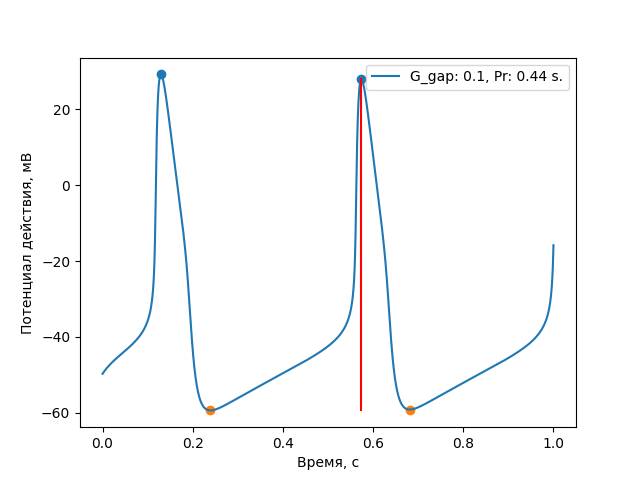
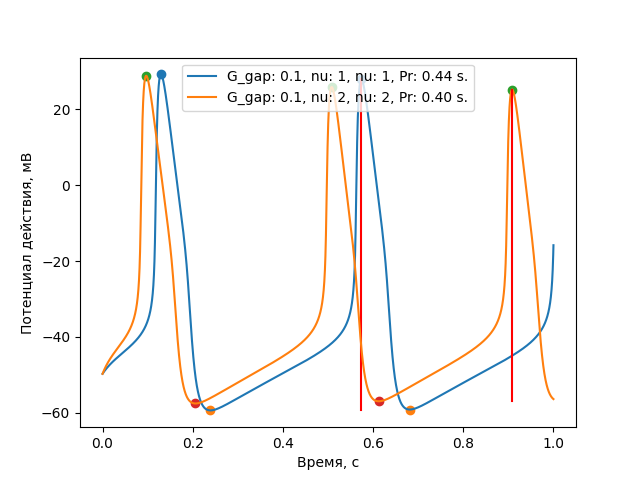
Рабочий протокол 2

diff --git a/src/protocol_2.py b/src/protocol_2.py
@@ -64,13 +64,17 @@ def protocol_2():
             time[gap] = t_number
             V_mak[gap] = V_mac_number
 
+        logger.info("Рачет характеристик ПД...")
         for gap in gaps:
+            V_max_number = {}
+            V_min_number = {}
+            characteristics_number = {}
             for number_macrofag in number_macrofags:
 
                 maximum_V_index = argrelmax(V[gap][number_macrofag])
                 maximum_V = V[gap][number_macrofag][maximum_V_index]
                 maximum_V_time = time[gap][number_macrofag][maximum_V_index]
-                V_max[gap] ={number_macrofag:{'index': maximum_V_index, 'maximum': maximum_V, 'time': maximum_V_time}}
+                V_max_number[number_macrofag] = {'index': maximum_V_index, 'maximum': maximum_V, 'time': maximum_V_time}
 
                 print('Индексы максимумов V', maximum_V_index)
                 print('Максимумы V', maximum_V)
@@ -79,19 +83,24 @@ def protocol_2():
                 minimum_V_index = argrelmin(V[gap][number_macrofag])
                 minimum_V = V[gap][number_macrofag][minimum_V_index]
                 minimum_V_time = time[gap][number_macrofag][minimum_V_index]
-                V_min[gap] = {number_macrofag:{'index': minimum_V_index, 'minimum': minimum_V, 'time': minimum_V_time}}
+                V_min_number[number_macrofag] = {'index': minimum_V_index, 'minimum': minimum_V, 'time': minimum_V_time}
 
                 print('Индексы минимумов V', minimum_V_index)
                 print('Минимумы V', minimum_V)
                 print('Время локальных минимумов', minimum_V_time)
 
-                characteristics[gap] = {number_macrofag:{'ampl': maximum_V[-1]-minimum_V[-1], 'period': maximum_V_time[-1]-maximum_V_time[-2]}}
-                print('Амплитуда потенциала действия',characteristics[gap][number_macrofag]['ampl'], 'Период',characteristics[gap][number_macrofag]['period'])
+                characteristics_number[number_macrofag] = {'ampl': maximum_V[-1]-minimum_V[-1], 'period': maximum_V_time[-1]-maximum_V_time[-2]}
+                print('Амплитуда потенциала действия',characteristics_number[number_macrofag]['ampl'], 'Период', characteristics_number[number_macrofag]['period'])
 
+            V_max[gap] = V_max_number
+            V_min[gap] = V_min_number
+            characteristics[gap] = characteristics_number
+        
+        logger.info("Пострение графиков")
         fig, ax = plt.subplots()        
         for gap in gaps:
             for number_macrofag in number_macrofags:
-                ax.plot(time[gap][number_macrofag],V[gap][number_macrofag], label = f'G_gap: {gap}, nu: {number_macrofag} Pr: {characteristics[gap][number_macrofag]['period']:.2f} s.')
+                ax.plot(time[gap][number_macrofag],V[gap][number_macrofag], label = f'G_gap: {gap}, nu: {number_macrofag}, nu: {number_macrofag}, Pr: {characteristics[gap][number_macrofag]['period']:.2f} s.')
                 ax.scatter(V_max[gap][number_macrofag]['time'],V_max[gap][number_macrofag]['maximum'])
                 ax.scatter(V_min[gap][number_macrofag]['time'],V_min[gap][number_macrofag]['minimum'])
                 ax.plot([V_max[gap][number_macrofag]['time'][-1], V_max[gap][number_macrofag]['time'][-1]],
@@ -105,7 +114,7 @@ def protocol_2():
 
         fig, ax = plt.subplots()
         for gap in gaps:
-            ax.plot(time[gap],V_mak[gap], label = f'G_gap: {gap}')
+            ax.plot(time[gap][number_macrofag],V_mak[gap][number_macrofag], label = f'G_gap: {gap}')
 
         ax.set_xlabel('Время, с')
         ax.set_ylabel('Потенциал макрофага, мВ')
